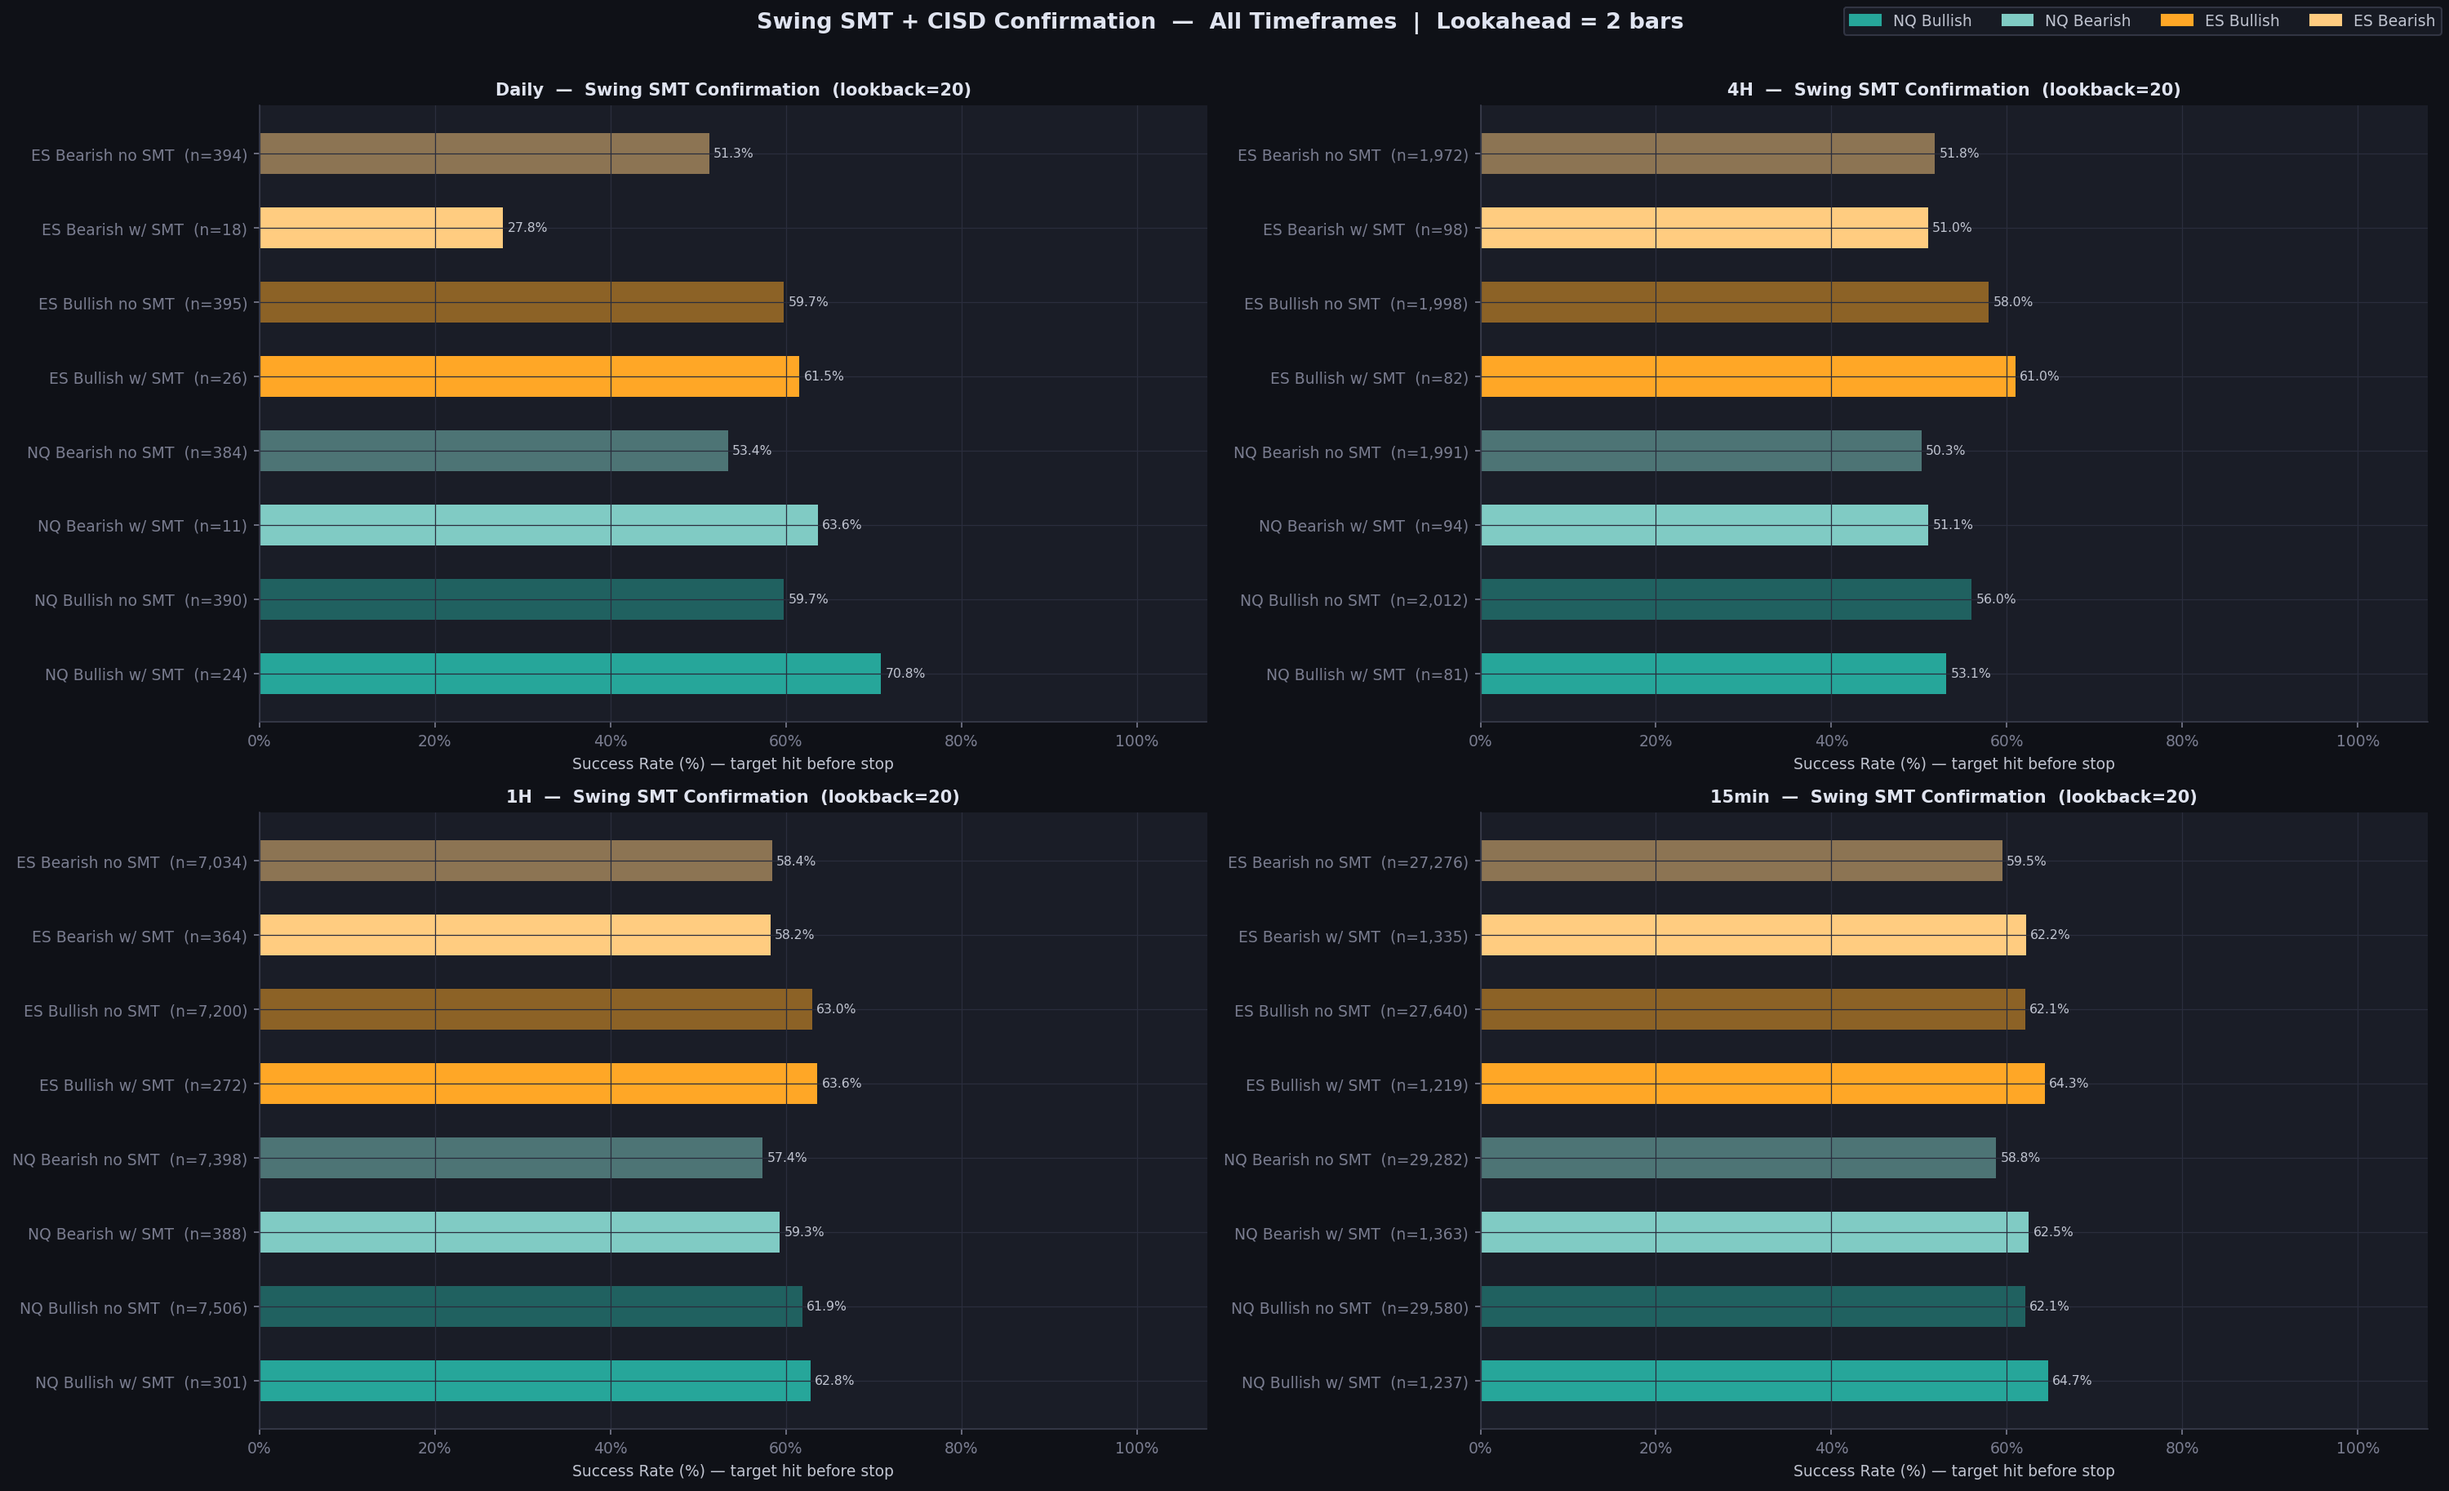
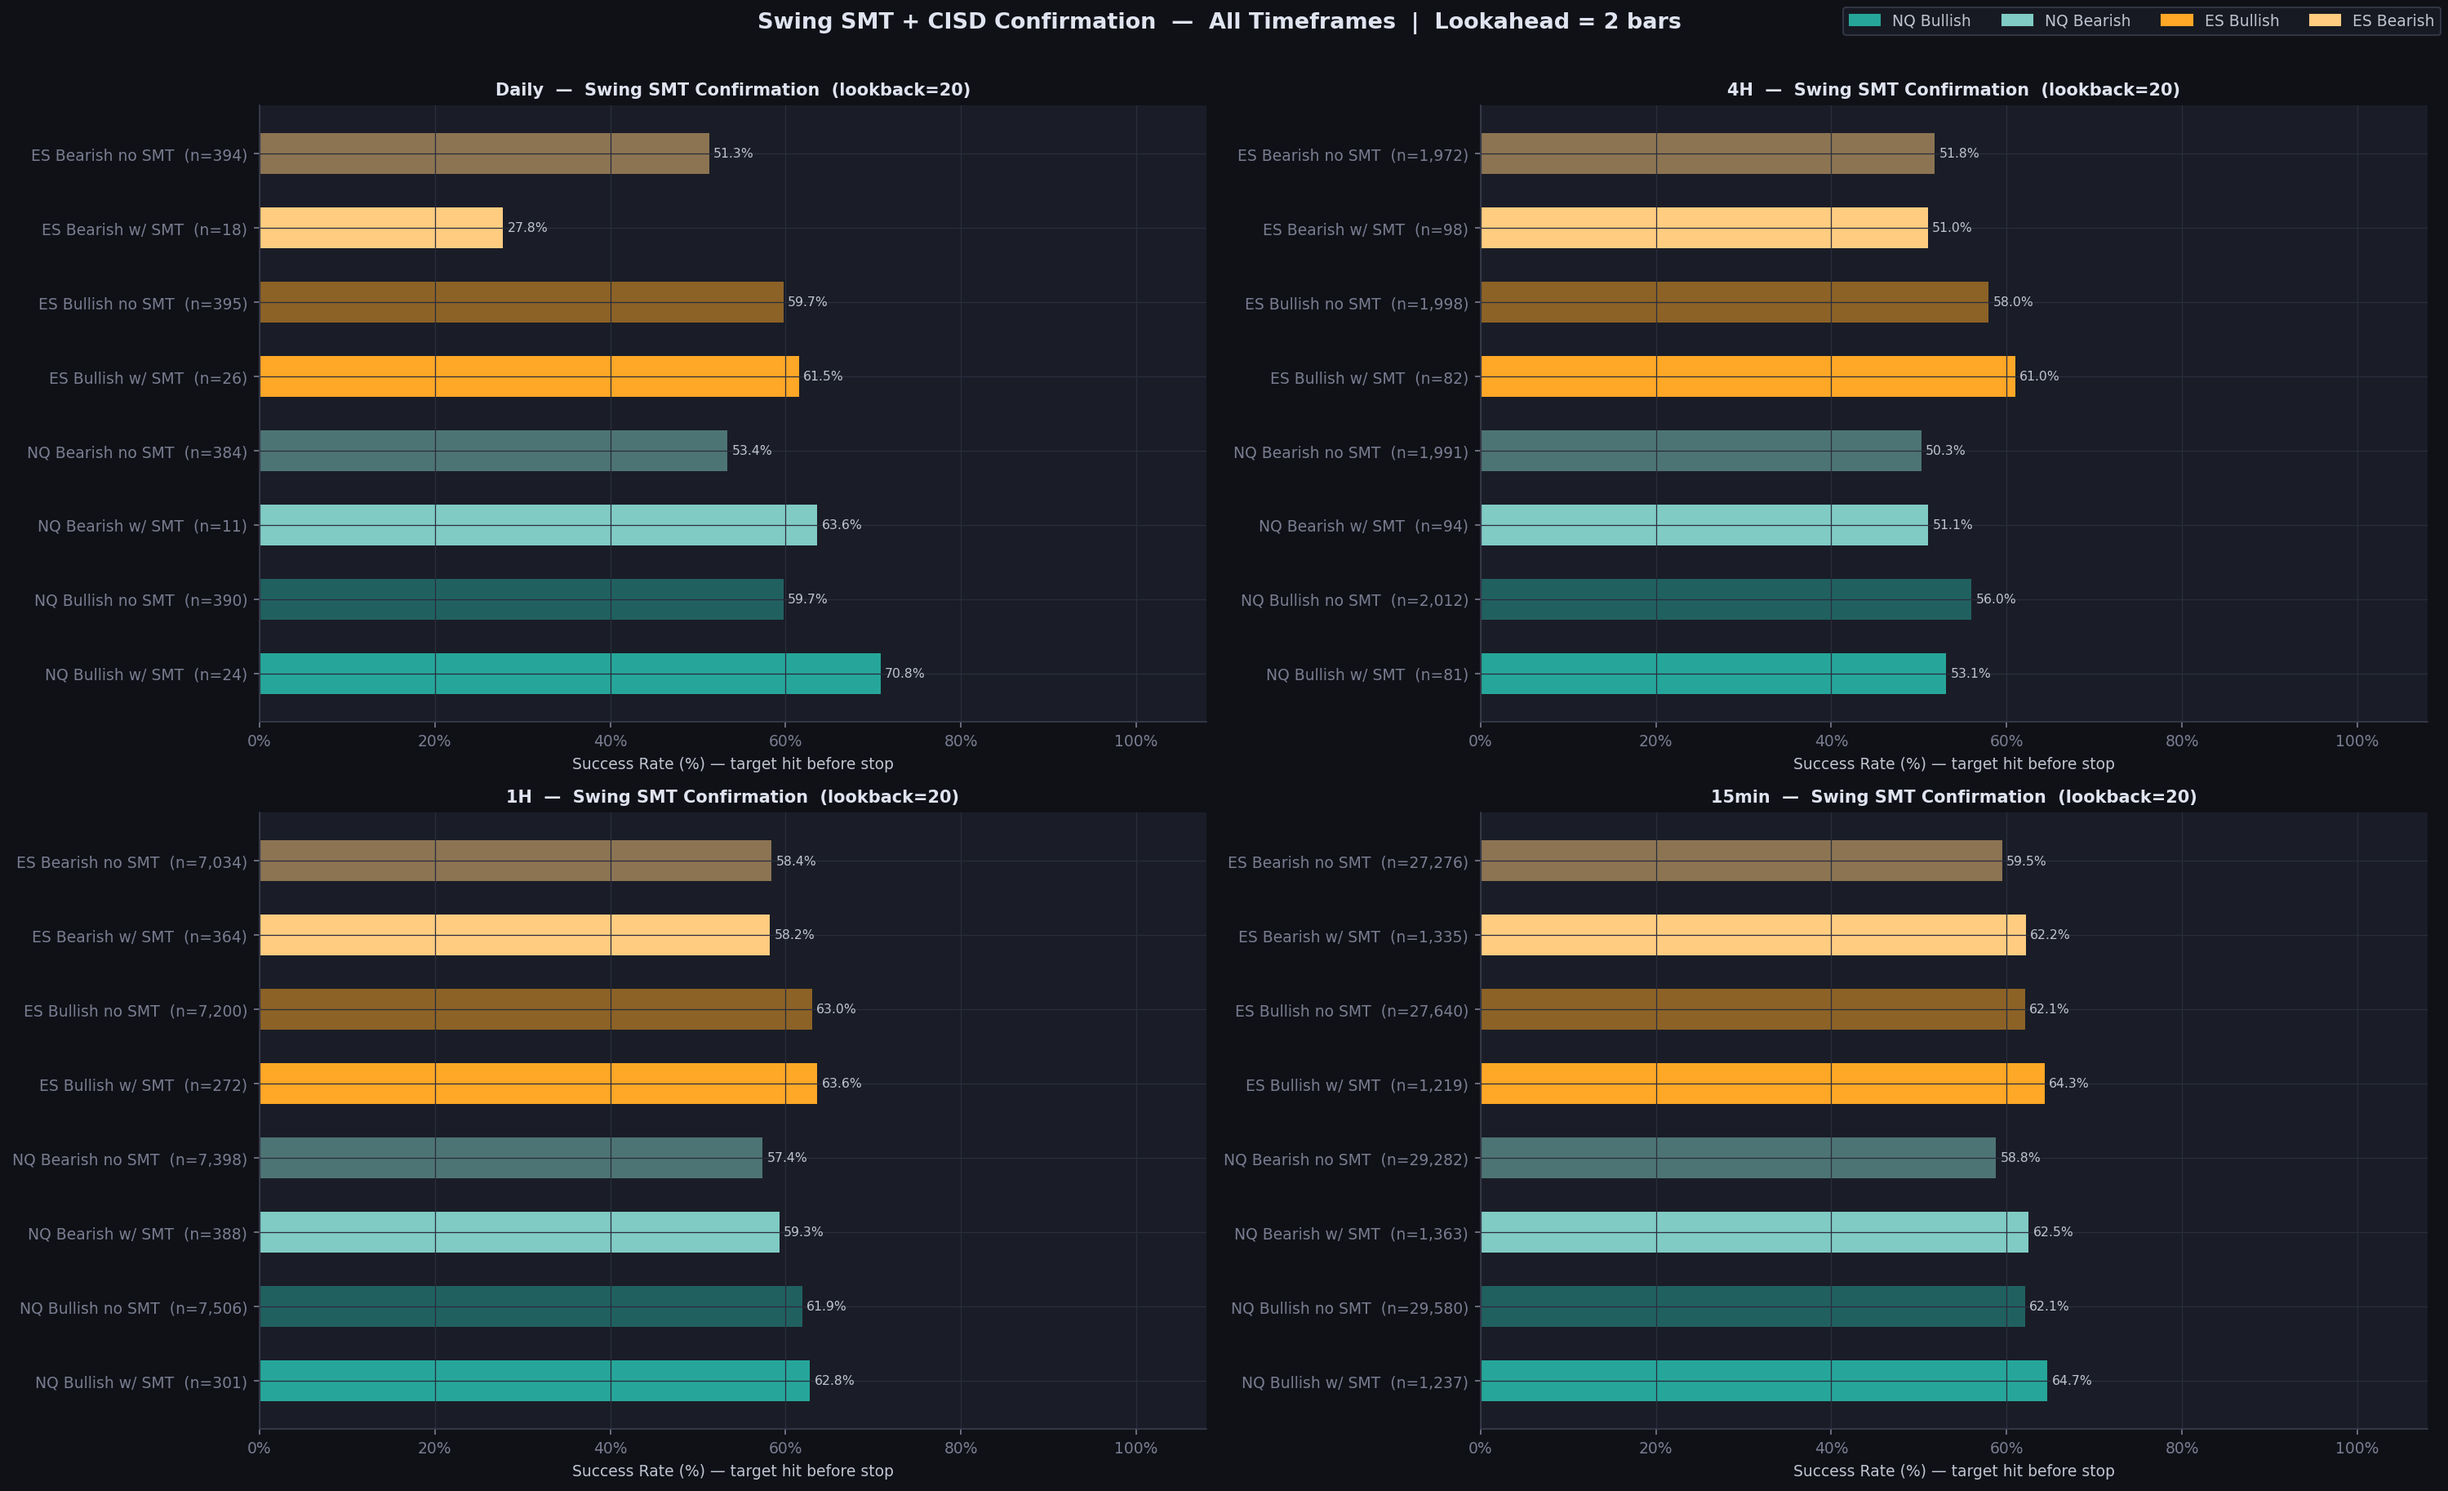
updated readme

diff --git a/README.md b/README.md
@@ -88,6 +88,40 @@ Volume ratio (CISD candle vs previous candle) has **negligible impact** on outco
 
 ---
 
+### 8. Swing SMT Confirmation
+*(See `SMT_CISD_All_Timeframes.png`)*
+
+A co-occurring same-direction **Swing SMT** (divergence between NQ and ES swing highs/lows, lookback=20) is used as a confirmation filter. Results vary sharply by timeframe.
+
+| Timeframe | Instrument | Direction | w/ SMT | no SMT | Δ |
+|---|---|---|---|---|---|
+| Daily | NQ | Bullish | **70.8%** (n=24) | 59.7% | +11.1pp |
+| Daily | NQ | Bearish | **63.6%** (n=11) | 53.4% | +10.2pp |
+| Daily | ES | Bullish | 61.5% (n=26) | 59.7% | +1.8pp |
+| Daily | ES | Bearish | **27.8%** (n=18) | 51.3% | −23.5pp |
+| 4H | NQ | Bullish | 53.1% (n=81) | 56.0% | −2.9pp |
+| 4H | NQ | Bearish | 51.1% (n=94) | 50.3% | +0.8pp |
+| 4H | ES | Bullish | 61.0% (n=82) | 58.0% | +3.0pp |
+| 4H | ES | Bearish | 51.0% (n=98) | 51.8% | −0.8pp |
+| 1H | NQ | Bullish | 62.8% (n=301) | 61.9% | +0.9pp |
+| 1H | NQ | Bearish | 59.3% (n=388) | 57.4% | +1.9pp |
+| 1H | ES | Bullish | 63.6% (n=272) | 63.0% | +0.6pp |
+| 1H | ES | Bearish | 58.2% (n=364) | 58.4% | −0.2pp |
+| 15min | NQ | Bullish | **64.7%** (n=1,237) | 62.1% | +2.6pp |
+| 15min | NQ | Bearish | **62.5%** (n=1,363) | 58.8% | +3.7pp |
+| 15min | ES | Bullish | **64.3%** (n=1,219) | 62.1% | +2.2pp |
+| 15min | ES | Bearish | **62.2%** (n=1,335) | 59.5% | +2.7pp |
+
+**Key takeaways:**
+- **Daily** SMT sample sizes are very small (n=11–26) making results unreliable. The ES Bearish w/ SMT result (27.8%) is a notable outlier but based on only 18 events.
+- **4H** SMT has negligible impact — differences are within ±3pp and no directional consistency.
+- **1H** SMT is similarly flat — lifts of <2pp across all four instrument/direction combos.
+- **15min** shows the most consistent positive effect: +2–4pp across all combos with large sample sizes (n=1,200–1,400).
+
+SMT confirmation adds the most value at **15min**, where it provides a small but consistent edge across both instruments and both directions.
+
+---
+
 ## Visual Reports
 
 **Per-Timeframe (5 core analyses):**
@@ -108,6 +142,7 @@ Volume ratio (CISD candle vs previous candle) has **negligible impact** on outco
 
 ![Volume Ratio](output/Volume_All_Timeframes.png)
 
+![Swing SMT Confirmation](output/SMT_CISD_All_Timeframes.png)
 
 ---
 
